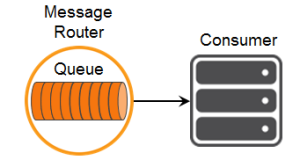
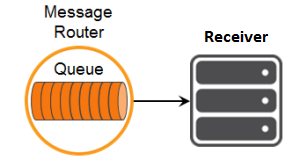
Added Persistence with queues tutorial

Changed region(s): [[0.66, 0.1875, 0.93, 0.3125]]

diff --git a/src/QueueSender.js b/src/QueueSender.js
@@ -90,4 +90,4 @@ process.on('unhandledRejection', (reason, promise) => {
     console.log('QueueSender Unhandled Rejection: promise ', promise, ', reason: ', reason);
 });
 
-new QueueSender().host('192.168.133.16').amqpPort('8555').queue('amqp/tutorial/queue').send('Message with String Data');
+new QueueSender().host('SOLACE_HOSTNAME').amqpPort('AMQP_SERVICE_PORT').queue('amqp/tutorial/queue').send('Message with String Data');

diff --git a/src/QueueReceiver.js b/src/QueueReceiver.js
@@ -91,4 +91,4 @@ process.on('unhandledRejection', (reason, promise) => {
     console.log('QueueReceiver Unhandled Rejection: promise ', promise, ', reason: ', reason);
 });
 
-new QueueReceiver().host('192.168.133.16').amqpPort('8555').queue('amqp/tutorial/queue').receive();
+new QueueReceiver().host('SOLACE_HOSTNAME').amqpPort('AMQP_SERVICE_PORT').queue('amqp/tutorial/queue').receive();

diff --git a/docs/_tutorials/persistence-with-queues.md b/docs/_tutorials/persistence-with-queues.md
@@ -5,15 +5,13 @@ summary: Demonstrates persistent messages for guaranteed delivery.
 icon: persistence-with-queues-icon.png
 ---
 
-This tutorial builds on the basic concepts introduced in the [publish/subscribe tutorial]({{ site.baseurl }}/publish-subscribe){:target="_blank"}, and will show you how to send and receive persistent messages with JMS 2.0 API client using AMQP and Solace Message Router.
+This tutorial will show you how to send and receive persistent messages with Node.js using the [**amqp10** AMQP 1.0 compliant client](https://github.com/noodlefrenzy/node-amqp10)  and Solace Message Router.
 
 ![Sample Image Text]({{ site.baseurl }}/images/persistence-with-queues-icon.png)
 
 This tutorial is available in [GitHub]({{ site.repository }}){:target="_blank"} along with the other [Solace Getting Started AMQP Tutorials]({{ site.links-get-started-amqp }}){:target="_top"}.
 
 At the end, this tutorial walks through downloading and running the sample from source.
-
-This tutorial focuses on using a non-Solace JMS API implementation. For using the Solace JMS API see [Solace Getting Started JMS Tutorials]({{ site.links-get-started-jms }}){:target="_blank"}.
 
 ## Assumptions
 
@@ -32,7 +30,7 @@ One simple way to get access to a Solace message router is to start a Solace VMR
 
 ## Goals
 
-The goal of this tutorial is to demonstrate how to use JMS 2.0 API over AMQP using the Solace Message Router. This tutorial will show you:
+The goal of this tutorial is to demonstrate how to use the [**amqp10** AMQP 1.0 compliant client](https://github.com/noodlefrenzy/node-amqp10) with the Solace Message Router. This tutorial will show you:
 
 1.  How to send a persistent message to a durable queue that exists on the Solace message router
 2.  How to bind to this queue and receive a persistent message
@@ -66,105 +64,90 @@ In order to send or receive messages to a Solace message router, you need to kno
 </tbody>
 </table>
 
-## Java Messaging Service (JMS) Introduction
+## AMQP 1.0 compliant client
 
-JMS is a standard API for sending and receiving messages. As such, in addition to information provided on the Solace developer portal, you may also look at some external sources for more details about JMS. The following are good places to start
+The [**amqp10** AMQP 1.0 compliant client](https://github.com/noodlefrenzy/node-amqp10) is an open-source JavaScript client for sending and receiving messages over AMQP 1.0. If you choose to use a different AMQP 1.0 compliant client, adjust the given in this tutorial examples accordingly.
 
-1. [http://java.sun.com/products/jms/docs.html](http://java.sun.com/products/jms/docs.html){:target="_blank"}.
-2. [https://en.wikipedia.org/wiki/Java_Message_Service](https://en.wikipedia.org/wiki/Java_Message_Service){:target="_blank"}
-3. [https://docs.oracle.com/javaee/7/tutorial/partmessaging.htm#GFIRP3](https://docs.oracle.com/javaee/7/tutorial/partmessaging.htm#GFIRP3){:target="_blank"}
+### Obtaining amqp10
 
-The last (Oracle docs) link points you to the JEE official tutorials which provide a good introduction to JMS.
+This tutorial depends on you having the [**amqp10** AMQP 1.0 compliant client](https://github.com/noodlefrenzy/node-amqp10) downloaded and installed for your project, and the instructions in this tutorial assume you successfully done it. If your environment differs then adjust the build instructions appropriately.
 
-This tutorial focuses on using [JMS 2.0 (May 21, 2013)]({{ site.links-jms2-specification }}){:target="_blank"}, for [JMS 1.1 (April 12, 2002)]({{ site.links-jms1-specification }}){:target="_blank"} see [Solace Getting Started AMQP JMS 1.1 Tutorials]({{ site.links-get-started-amqp-jms1 }}){:target="_blank"}.
+The easiest way to do it through `npm`:
 
-## Obtaining JMS 2.0 API
-
-This tutorial depends on you having the [Apache Qpid JMS client](https://qpid.apache.org/components/jms/index.html) downloaded and installed for your project, and the instructions in this tutorial assume you successfully done it. If your environment differs then adjust the build instructions appropriately.
-
-The easiest way to do it through Maven. See the project's *pom.xml* file for details.
+~~~sh
+$ npm install amqp10 -save
+~~~
 
 ## Connecting to the Solace Message Router
 
-In order to send or receive messages, an application must start a JMS connection.
+The *amqp10* client uses *Promise* from the [*Bluebird* library](http://bluebirdjs.com) that is a superset of the ES6 *Promise* specification, but our tutorial examples will follow only the ES6 *Promise* specification.
 
-There is only one required parameter for establishing the JMS connection: the Solace Message Router host name with the AMQP service port number. The value of this parameter is loaded in the examples by the `javax.naming.InitialContext.InitialContext()` from the *jndi.properties* project's file, but of course it could be assigned directly in the application by assigning the corresponding environment variable.
+In order to send or receive messages, an application that uses *amqp10* client must start connection to the Solace Message Router AMQP service URL. The URL consists of the Solace Message Router host name with the AMQP service port number.
 
-*jndi.properties*
-~~~
-java.naming.factory.initial = org.apache.qpid.jms.jndi.JmsInitialContextFactory
-connectionfactory.solaceConnectionLookup = amqp://192.168.123.45:8555
-~~~
+Assigning `defaultSubjects` to `false` allows to use a slash-separated hierarchy in the queue name.
 
-Notice how JMS 2.0 API combines `Connection` and `Session` objects into the `JMSContext` object.
-
-*TopicPublisher.java/TopicSubscriber.java*
-~~~java
-Context initialContext = new InitialContext();
-ConnectionFactory factory = (ConnectionFactory) initialContext.lookup("solaceConnectionLookup");
-
-try (JMSContext context = factory.createContext()) {
+*QueueSender.js/QueueRecevier.js*
+~~~javascript
+var AMQP = require('amqp10');
+var amqpClient = new AMQP.Client(AMQP.Policy.merge({
+    defaultSubjects : false
+}));
+amqpClient.connect('amqp://192.168.123.45:8555').then(() => {
 ...
 ~~~
-
-The session created by the `JMSContext` object by default is non-transacted and uses the acknowledge mode that automatically acknowledges a client's receipt of a message.
 
 At this point the application is connected to the Solace Message Router and ready to send and receive messages.
 
 ## Sending a persistent message to a queue
 
-In order to send a message to a queue a JMS *Producer* needs to be created.
+In order to send a message to a queue a *Sender* needs to be created.
 
 ![sending-message-to-queue]({{ site.baseurl }}/images/persistence-with-queues-details-2.png)
 
-There is no difference in the actual method calls to the JMS producer when sending a JMS `persistent` message as compared to a JMS `non-persistent` message shown in the [publish/subscribe tutorial]({{ site.baseurl }}/publish-subscribe){:target="_blank"}. The difference in the JMS `persistent` message is that the Solace Message Router will acknowledge the message once it is successfully stored on the message router and the `QueueSender.send()` call will not return until it has successfully received this acknowledgement. This means that in JMS, all calls to the `Producer.send()` are blocking calls and they wait for message confirmation from the Solace message router before proceeding. This is outlined in the JMS specification and Solace JMS adheres to this requirement.
-
-The name of the queue for sending messages is loaded by `javax.naming.InitialContext.InitialContext()` from the *jndi.properties* project's file. It must exist on the Solace Message Router as a `durable queue`.
+The name of the queue for sending messages is given to *Sender* when it is being created. The queue must exist on the Solace Message Router as a `durable queue`.
 
 See [Configuring Queues]({{ site.docs-confugure-queues }}){:target="_blank"} for details on how to configure durable queues on Solace Message Routers with Solace CLI.
 
 See [Management Tools]({{ site.docs-management-tools }}){:target="_top"} for other tools for configure durable queues.
 
-*jndi.properties*
-~~~
-queue.queueLookup = amqp/tutorial/queue
-~~~
-
-JMS 2.0 API allows the use of *method chaining* to create the producer, set the delivery mode and send the message.
-
-*QueueSender.java*
-~~~java
-Queue target = (Queue) initialContext.lookup("queueLookup");
-context.createProducer().setDeliveryMode(DeliveryMode.PERSISTENT).send(target, "Message with String Data");
+*QueueSender.js*
+~~~javascript
+amqpClient.connect('amqp://192.168.123.45:8555').then(() => {
+    return amqpClient.createSender('amqp/tutorial/queue');
+}).then((amqpSender) => {
+    return amqpSender.send('Message with String Data').then(() => {
 ~~~
 
 ## Receiving a persistent message from a queue
 
-To receive a persistent message from a queue a JMS consumer needs to be created.
+To receive a persistent message from a queue a *Receiver* needs to be created.
 
 ![]({{ site.baseurl }}/images/persistence-with-queues-details-1.png)
 
-The name of the queue is loaded by the `javax.naming.InitialContext.InitialContext()` from the *jndi.properties* project's file and its name is the same as the one we publish messages to.
+The name of the queue for sending messages is given to *Receiver* when it is being created and it is the same as the one we send messages to.
 
-*jndi.properties*
-~~~
-queue.queueLookup = amqp/tutorial/queue
-~~~
-
-JMS 2.0 API allows the use of *method chaining* to create the consumer and receive messages sent to the subscribed queue.
+The created *Receiver* emits events, and listener functions for at least `message` and `errorReceived` events need to be declared. The event `message` will be emitted for every message recevied by the *Recevier*.
 
 *QueueReceiver.java*
-~~~java
-Queue source = (Queue) initialContext.lookup("queueLookup");
-Message message = context.createConsumer(source).receive();
+~~~javascript
+amqpClient.connect('amqp://192.168.123.45:8555').then(() => {
+    return amqpClient.createReceiver('amqp/tutorial/queue');
+}).then((amqpReceiver) => {
+    amqpReceiver.on('message', (message) => {
+        ...
+    });
+    amqpReceiver.on('errorReceived', (error) => {
+        ...
+    });
 ~~~
+
 
 ## Summarizing
 
 Combining the example source code shown above results in the following source code files:
 
-*   [QueueSender.java]({{ site.repository }}/blob/master/src/main/java/com/solace/samples/QueueSender.java){:target="_blank"}
-*   [QueueReceiver.java]({{ site.repository }}/blob/master/src/main/java/com/solace/samples/QueueReceiver.java){:target="_blank"}
+*   [QueueSender.js]({{ site.repository }}/blob/master/src/QueueSender.js){:target="_blank"}
+*   [QueueReceiver.js]({{ site.repository }}/blob/master/src/QueueReceiver.js){:target="_blank"}
 
 ### Getting the Source
 
@@ -175,23 +158,15 @@ git clone {{ site.repository }}
 cd {{ site.baseurl | remove: '/'}}
 ```
 
-### Building
+### Running
 
-Modify the *jndi.properties* file to reflect your Solace Message Router host and port number for the AMQP service.
-
-You can build and run both example files directly from Eclipse.
-
-To build a jar file that includes all dependencies execute the following:
-
-~~~sh
-mvn assembly:single
-~~~
+Modify examples code to reflect your Solace Message Router host and port number for the AMQP service.
 
 Then the examples can be executed as:
 
 ~~~sh
-java -cp ./target/solace-samples-amqp-jms2-1.0.1-SNAPSHOT-jar-with-dependencies.jar  com.solace.samples.QueueReceiver
-java -cp ./target/solace-samples-amqp-jms2-1.0.1-SNAPSHOT-jar-with-dependencies.jar  com.solace.samples.QueueSender
+node src/QueueReceiver.js
+node src.QueueSender.js
 ~~~
 
 ### Sample Output
@@ -199,32 +174,30 @@ java -cp ./target/solace-samples-amqp-jms2-1.0.1-SNAPSHOT-jar-with-dependencies.
 First start the `QueueReceiver` so that it is up and waiting for messages.
 
 ~~~sh
-$ java -cp ./target/solace-samples-amqp-jms2-1.0.1-SNAPSHOT-jar-with-dependencies.jar  com.solace.samples.QueueReceiver
-2017-07-06T14:22:34,825 INFO sasl.SaslMechanismFinder - Best match for SASL auth was: SASL-ANONYMOUS
-2017-07-06T14:22:34,855 INFO samples.QueueReceiver - Waiting for a persistent message...
-2017-07-06T14:22:34,915 INFO jms.JmsConnection - Connection ID:1827298d-0da3-4c7e-89ff-6e95c862b7c7:1 connected to remote Broker: amqp://192.168.123.45:8555
+$ node src/QueueReceiver.js
+[17:13:14] Connecting to amqp://192.168.123.45:8555
+[17:13:14] Waiting for messages...
 ~~~
 
 Then you can start the `QueueSender` to send the message.
 
 ~~~sh
-$ java -cp ./target/solace-samples-amqp-jms2-1.0.1-SNAPSHOT-jar-with-dependencies.jar  com.solace.samples.QueueSender
-2017-07-06T14:23:33,712 INFO sasl.SaslMechanismFinder - Best match for SASL auth was: SASL-ANONYMOUS
-2017-07-06T14:23:33,792 INFO jms.JmsConnection - Connection ID:372c9956-0ad2-424b-9fa5-9569f45e40e0:1 connected to remote Broker: amqp://192.168.123.45:8555
-2017-07-06T14:23:33,892 INFO samples.QueueSender - Message message sent successfully.
-2017-07-06T14:23:33,922 INFO jms.JmsSession - A JMS MessageProducer has been closed: JmsProducerInfo { ID:372c9956-0ad2-424b-9fa5-9569f45e40e0:1:1:1, destination = null }
+$ node src/QueueSender.js
+[17:13:53] Connecting to amqp://192.168.123.45:8555
+[17:13:53] Sending message 'Message with String Data'...
+[17:13:53] Message sent successfully.
+[17:13:55] Finished.
 ~~~
 
 Notice how the message is received by the `QueueReceiver`.
 
 ~~~sh
 ...
-2017-07-06T14:22:34,855 INFO samples.QueueReceiver - Waiting for a persistent message...
-2017-07-06T14:22:34,915 INFO jms.JmsConnection - Connection ID:1827298d-0da3-4c7e-89ff-6e95c862b7c7:1 connected to remote Broker: amqp://192.168.133.16:8555
-2017-07-06T14:23:33,912 INFO samples.QueueReceiver - Received message with string data: "Message with String Data"
-2017-07-06T14:23:33,932 INFO jms.JmsSession - A JMS MessageConsumer has been closed: JmsConsumerInfo: { ID:1827298d-0da3-4c7e-89ff-6e95c862b7c7:1:1:1, destination = amqp/tutorial/queue }
+[17:13:14] Waiting for messages...
+[17:13:53] Received message: 'Message with String Data'.
+[17:13:55] Finished.
 ~~~
 
-Now you know how to use JMS 2.0 API over AMQP using the Solace Message Router to send and receive persistent messages from a queue.
+Now you know how to use **amqp10** AMQP 1.0 compliant Node.js client with the Solace Message Router to send and receive persistent messages from a queue.
 
 If you have any issues sending and receiving message or reply, check the [Solace community]({{ site.links-community }}){:target="_top"} for answers to common issues seen.

diff --git a/docs/_tutorials/topic-to-queue-mapping.md b/docs/_tutorials/topic-to-queue-mapping.md
@@ -27,7 +27,7 @@ If you have a durable queue named “Q”, it will receive messages published di
 
 JMS is a standard programmatic interface with a design goal of being messaging middleware agnostic. As such, the JMS interface does not provide a way for applications to directly take advantage of the Solace Topic to Queue Mapping feature. However JMS applications wishing to take advantage of this Solace feature have a few options.
 
-One option is to use a management interface to administratively configure the topic to queue mapping, by adding topic subscriptions to the queue. This can either be done through the CLI or SolAdmin management applications; or the SEMP programmatic management API. The SEMP API enables applications to fully configure Solace message routers. Applications can use this API by logging in to the Solace message router using a Message-VPN admin account. This concept is introduced in the [Technology – Messaging Platform Features]({{ site.links-tech-other }}){:target="_top"} and further details are available in the [Solace Message Router Product Documentation]({{ site.docs-semp }}){:target="_top"}.
+One option is to use a management interface to administratively configure the topic to queue mapping, by adding topic subscriptions to the queue. This can either be done through the CLI or SolAdmin management applications; or the SEMP programmatic management API. The SEMP API enables applications to fully configure Solace message routers. Applications can use this API by logging into the Solace message router using a Message-VPN admin account. This concept is introduced in the [Technology – Messaging Platform Features]({{ site.links-tech-other }}){:target="_top"} and further details are available in the [Solace Message Router Product Documentation]({{ site.docs-semp }}){:target="_top"}.
 
 A second option is to consider using a Solace Java API session directly for this part of your application. This is outlined in the [Solace-specific Java API version of this tutorial]({{ site.links-get-started-java-topic-to-queue-mapping }}){:target="_top"}. This would involve opening a second client connection using a Java API Session and then mapping the required topics onto the desired queue. Then this Java API session can be closed.
 

diff --git a/docs/_tutorials/confirmed-delivery.md b/docs/_tutorials/confirmed-delivery.md
@@ -15,13 +15,11 @@ This tutorial focuses on using a non-Solace JMS API implementation. For using th
 
 ## Persistent Publishing
 
-In the JMS, when sending persistent messages, the JMS *Producer* must not return from the blocking `send()` method until the message is fully acknowledged by the message broker.
+In the JMS, when sending persistent messages, the JMS *Producer* will return from the blocking `send()` method until the message is fully acknowledged by the message broker.
 
-This behavior is mandated by the specification. Therefore applications sending persistent messages using the Solace Message Router are guaranteed that the messages is accepted by the Router by the time the `send()` call returns. No extra publisher acknowledgement handling is required or possible.
+This behavior means that applications sending persistent messages using the Solace Message Router are guaranteed that the messages is accepted by the Router by the time the `send()` call returns. No extra publisher acknowledgement handling is required or possible.
 
-This behavior means that persistent message producers are forced to block on sending each message. This can lead to performance bottlenecks on publish. Applications can work around this by using JMS Session based transactions and committing the transaction only after several messages are sent to the messaging system.
-
-Refer to the [JMS 1.1 (April 12, 2002) specification]({{ site.links-jms1-specification }}){:target="_blank"} for further details on this subject.
+This behavior also means that persistent message producers are forced to block on sending each message. This can lead to performance bottlenecks on publish. Applications can work around this by using JMS Session based transactions and committing the transaction only after several messages are sent to the messaging system.
 
 ## Summarizing
 
